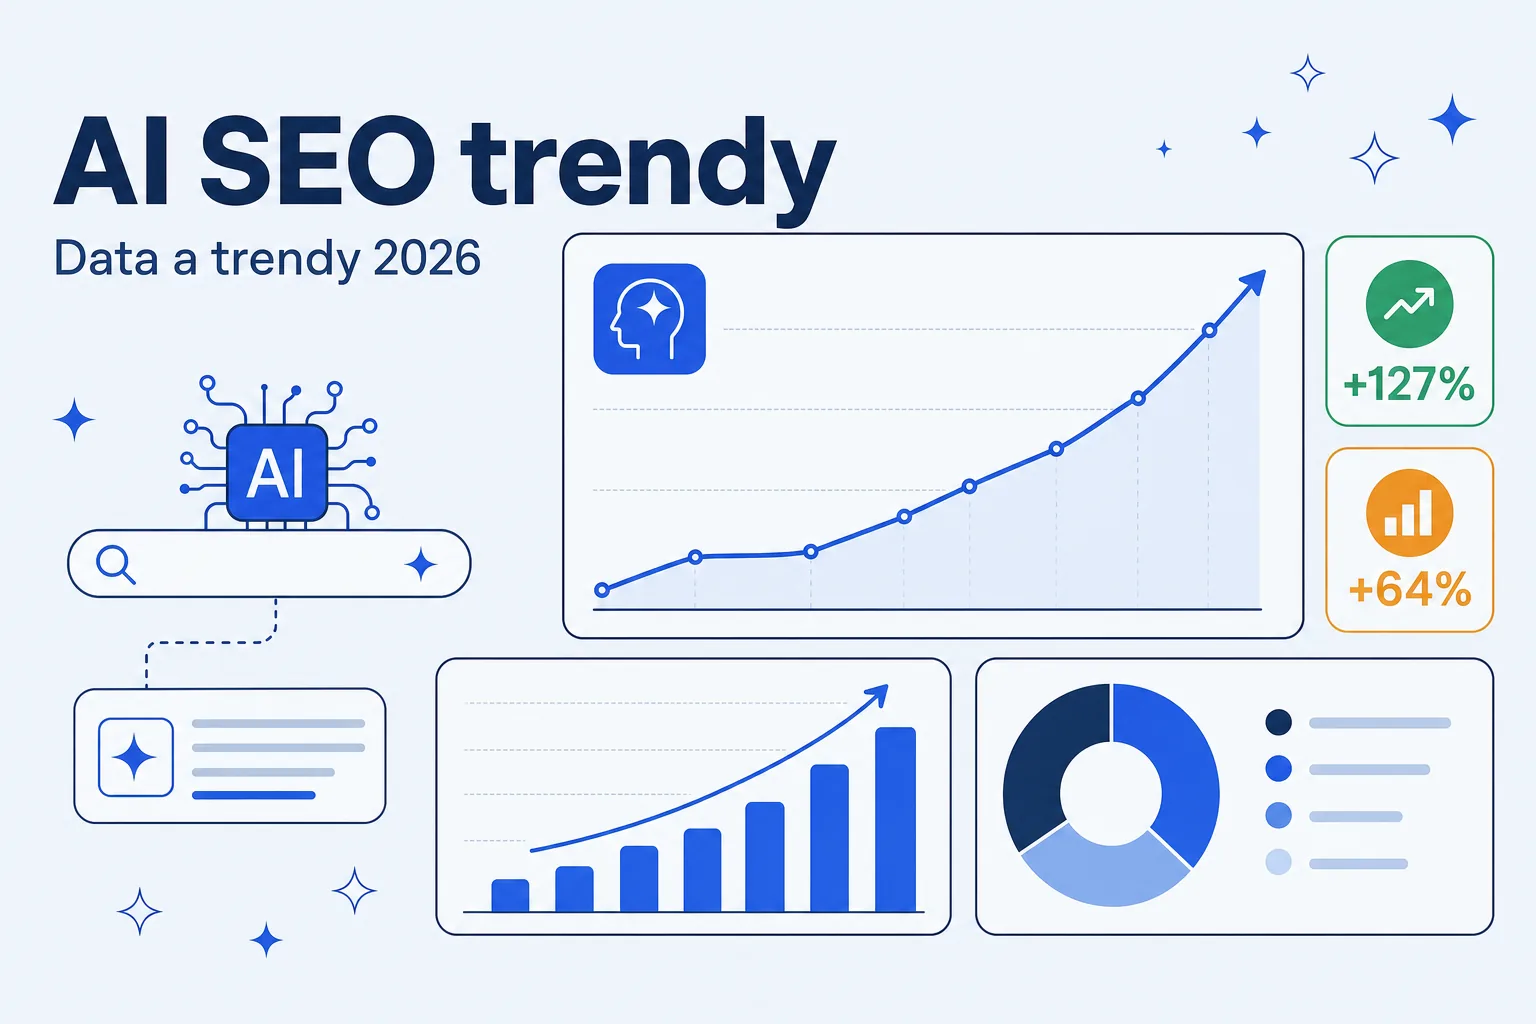
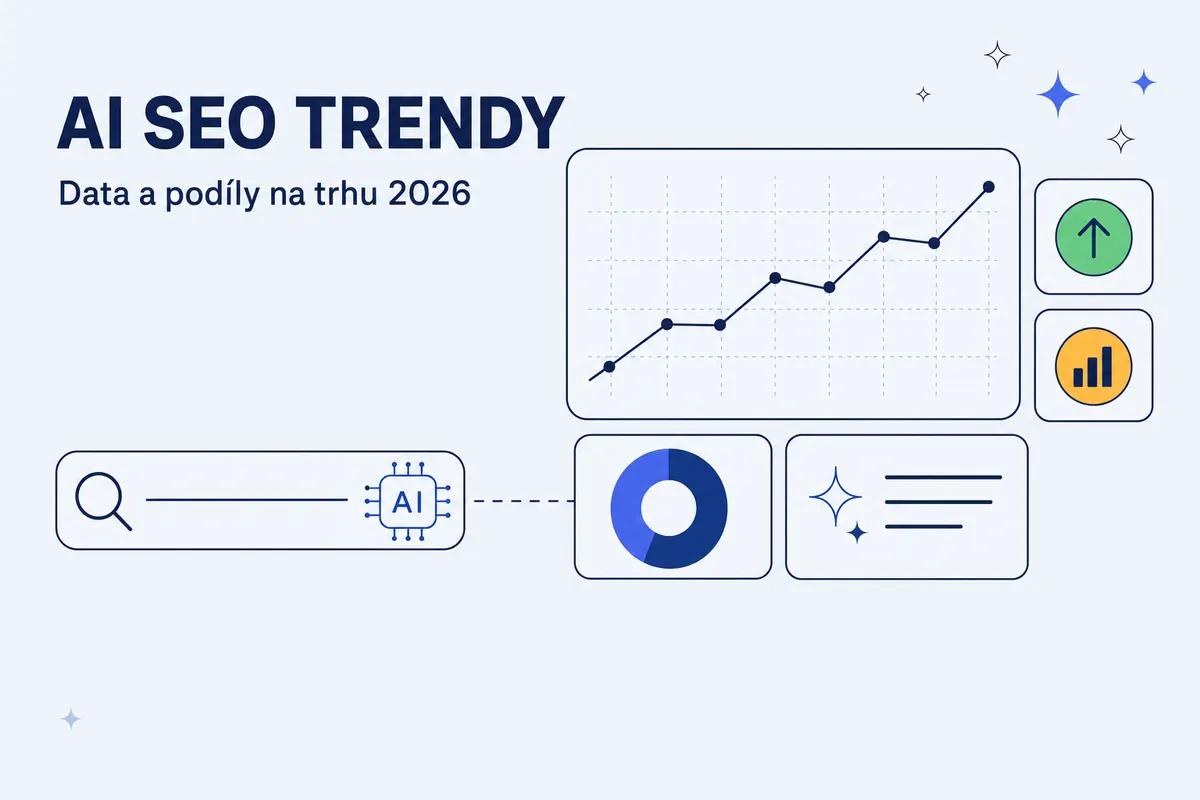
OG ai-search-trendy: pryč s vymyšlenými čísly (+127 %, +64 %)
Původní obrázek nesl dvě procenta, která v článku ani v datech nemají
oporu - model si je při generování domyslel. Na kartě článku O DATECH
to působí jako údaj, ne dekorace.

Přegenerováno: stejný headline AI SEO TRENDY, podtitul aktualizovaný
na 'Data a podíly na trhu 2026' podle nového titulku článku, odznaky
obsahují jen ikony (šipka nahoru, sloupcový graf), žádné hodnoty.
Jas 235,6 - v sadě.

Připomínka do logu: u vizuálů k datovým článkům platí zákaz číslic
dvojnásob, čtenář je čte jako fakt.

diff --git a/blogger/JAZYK_AUDIT_LOG.md b/blogger/JAZYK_AUDIT_LOG.md
@@ -182,6 +182,8 @@ Nejdelší text korpusu (6 100 slov) a zároveň ten, který jsem během srpna d
 
 **Zbylý ⛔ nález** je text odkazu citující titulek jiného našeho článku („Jak strukturovat pillar content") — doložená výjimka od článku 8.
 
+**Nález mimo jazykový audit — přegenerovaný OG obrázek.** Původní obrázek nesl **vymyšlená čísla „+127 %" a „+64 %"**, která v článku ani v datech nemají oporu. Na kartě článku o datech působila jako údaj. Obrázek přegenerován (jas 235,6, v sadě): stejný headline „AI SEO TRENDY", podtitul aktualizovaný na „Data a podíly na trhu 2026", odznaky obsahují **jen ikony, žádné hodnoty**. Připomínka pro IMAGE_GUIDE: u vizuálů k datovým článkům platí zákaz číslic dvojnásob — čtenář je čte jako fakt.
+
 ## ⛔ Kontrola kontextu je od 23. 8. 2026 povinná — a proč
 
 Na pokyn uživatele jsem zavedl povinnou kontrolu kontextu u **každé** náhrady (`SKILL.md` krok 3, slovník § 9.4) a hned ji použil zpětně: nechal jsem gpt-5.4 projet **všech 430 řádků, které jsem během sedmi auditů změnil**.
